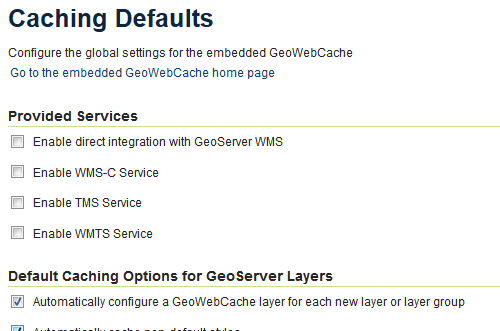
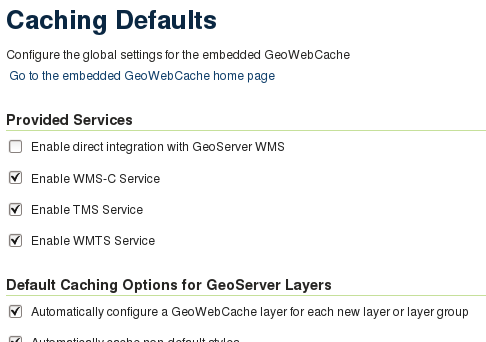
fix GWC settings before accessing from GeoExplorer

diff --git a/workshops/suiteintro/doc/source/geowebcache/publishing.rst b/workshops/suiteintro/doc/source/geowebcache/publishing.rst
@@ -10,7 +10,7 @@ Turn off automatic caching
 
 #. In the GeoServer web admin, click :guilabel:`Caching Defaults` under :guilabel:`Tile Caching` to see the entries for global caching.
 
-#. For the purposes of this exercise, **uncheck the four :guilabel:`Provided Services`** (WMS, WMS-C, TMS, WMTS). This will turn off automatic caching and allow us to see the difference in performance between cached map tiles and uncached map tiles.
+#. For the purposes of this exercise, **uncheck the first of the four :guilabel:`Provided Services`** (direct integration with GeoServer WMS). This will turn off automatic WMS caching and allow us to see the difference in performance between cached map tiles and uncached map tiles.
 
    .. figure:: img/gscaching.png
 
